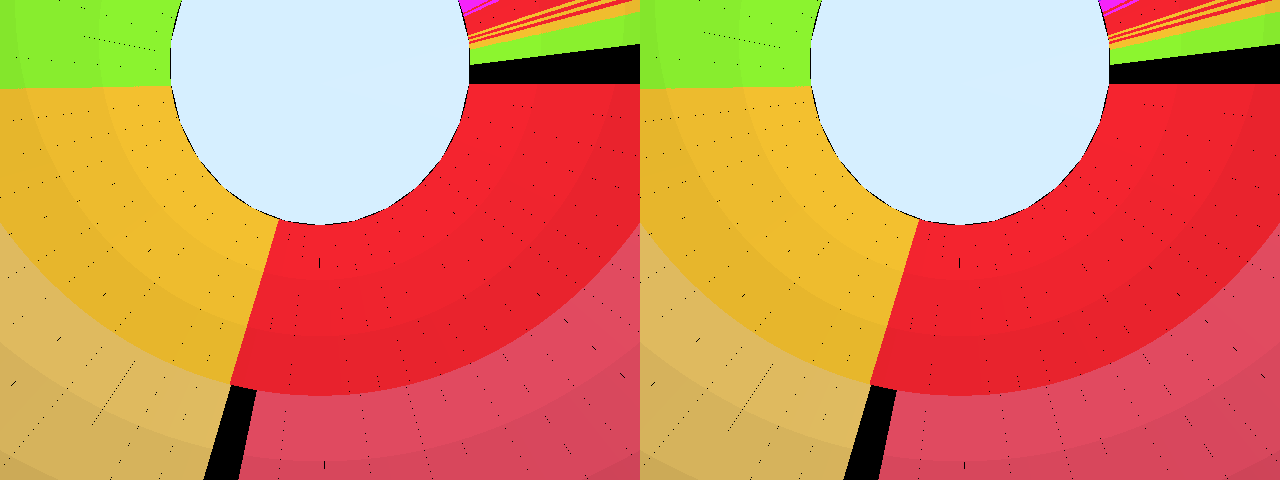
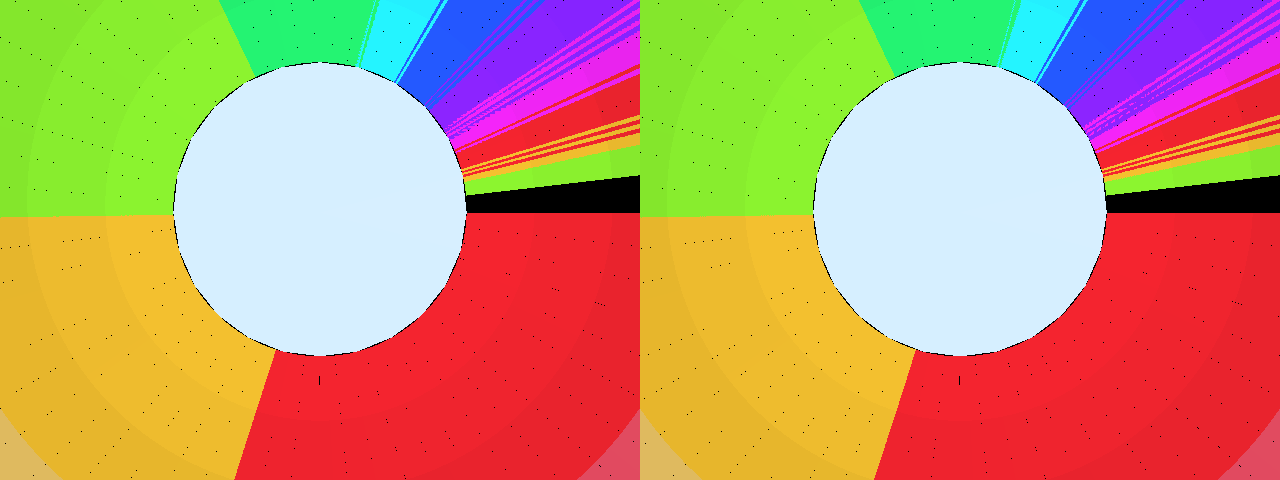
feat(dome): wide fisheye up-view to show the whole hemisphere
The player stands inside a 35-unit hemisphere, so the camera can't "pull back"
to frame it — the dome always surrounds the viewer. Switch the camera to a wide
fisheye (FOV 80 -> 150) at the dome centre looking straight up: the zenith cap
centres and the elevation bands radiate as concentric per-branch colour wedges
out to the horizon at the frame edge, so the whole hemisphere reads in one frame.
Raise CAM_OFFSET z to 3.5 (above the astronaut's head) so the avatar no longer
occludes the cap. Rotation=Track is kept (turn to look around).

Verified (WF_CULL=1, pixel-identical to cull-off): centred cap + full 360° of
radiating bands; screenshots updated.

diff --git a/wflevels/dome/blender_dome.py b/wflevels/dome/blender_dome.py
@@ -57,12 +57,13 @@ BANDS      = {1: (50.0, 72.0), 2: (28.0, 50.0), 3: (8.0, 28.0)}
 PLAYER_SPAWN = (0.0, 0.0, 1.0)          # player at the dome centre
 
 # Camera — player turns to look around (Rotation='Track' follows the player heading
-# C; Position Relative keeps it at the centre). Look-at target is high+forward so
-# the gaze pitches UP at the dome; turning sweeps that upward view around. (Framing
-# is a tuning step — adjust CAM_OFFSET / TARGET2_POS against a screenshot.)
-CAM_OFFSET  = (0.0,  0.0,  2.0)         # camera ≈ at the player's head
+# C). The player stands INSIDE a 35-unit hemisphere, so you can't "pull back" to see
+# it whole — the dome always surrounds you. Instead this is a wide FISHEYE looking
+# straight UP from the centre: the zenith cap centres, the elevation bands read as
+# concentric rings out toward the horizon at the frame edge. Turning sweeps it.
+CAM_OFFSET  = (0.0,  0.0,  3.5)         # at the dome centre, above the astronaut's head
 TARGET1_POS = (0.0,  0.0,  1.0)         # follow anchor (centre)
-TARGET2_POS = (0.0,  9.0, 26.0)         # look-at: up + forward → pitch toward the dome
+TARGET2_POS = (0.0,  2.0, 34.0)         # look-at: ~straight up (tiny +Y avoids gimbal)
 
 # Room bbox — contains the hemisphere (±35, z≤35), player, and camera, with margin.
 #   world = ROOM_CENTER + local  →  X[-45,45] Y[-45,45] Z[-2,45].
@@ -416,7 +417,7 @@ make_empty('CamShot01', CAM_OFFSET, 'camshot',
         'Position X':          'Relative',
         'Position Y':          'Relative',
         'Position Z':          'Relative',
-        'FOV':                 80.0,          # wide, to take in the dome overhead
+        'FOV':                 150.0,         # fisheye — whole hemisphere (cap → horizon)
         'Climb Rate':          4.0,
         'Elasticity':          10.0,
         'Pan Time In Seconds': 0.4,

diff --git a/docs/plans/2026-06-13-planetarium-dome-view.md b/docs/plans/2026-06-13-planetarium-dome-view.md
@@ -213,19 +213,25 @@ Built: `blender --background --python wflevels/dome/blender_dome.py` (17 objects
 - **M1 — PASS.** `FL: scanned '.' — 37 segments`; no asserts, no "fell out of room", no terminate,
   no zforth errors. (The 4 levcomp "outside every room bbox" warnings are the parked-OOB band/cap
   *templates* — spawned at the origin at runtime, exactly as filelight's parked templates.)
-- **M2 — PASS.** Renders the planetarium dome: light-blue **zenith cap** (cwd) overhead, ringed by
-  concentric **elevation bands** coloured per-branch (green/gold/red/pink, desaturating with depth).
-  And **`WF_CULL=1` is pixel-identical to the default (cull-off)** run — the inward-wound spherical
-  patches + cap are correct, so the dome is a clean first culling-on consumer.
+- **M2 — PASS.** Renders the planetarium dome — a wide **fisheye looking straight up from the
+  centre**: the light-blue **zenith cap** (cwd) centred, the **elevation bands** radiating as
+  concentric per-branch colour wedges (big green/gold/red depth-1 branches subdivided into depth-2/3
+  arcs; thin slivers for small branches) out to the horizon at the frame edge, full 360°. The whole
+  hemisphere reads in one frame. **`WF_CULL=1` is pixel-identical to the default (cull-off)** run —
+  the inward-wound spherical patches + cap are correct, so the dome is a clean first culling-on
+  consumer.
+  <img src="../../wflevels/dome/screenshots/2026-06-13-planetarium-dome.png" width="480">
   <img src="../../wflevels/dome/screenshots/2026-06-13-dome-cull-off-vs-on.png" width="700">
-  *(left: default / cull off · right: `WF_CULL=1` / cull on — identical)*
+  *(top: fisheye up-view (whole hemisphere) · bottom — left: cull off · right: `WF_CULL=1` — identical)*
 - **M3 — inherited, not separately demonstrated.** The render policy lives entirely in the Director
   `.fth` (depth→band, hue), the same hot-reload mechanism filelight proved; not re-demonstrated this
   session.
 
-**Tuning note:** the camera (FOV 80, at centre looking up-and-forward) frames the cap + inner bands
-filling the view; pull `CAM_OFFSET`/`TARGET2_POS` back to take in more of the hemisphere. The
-"turn to look around" (`Rotation=Track`) wasn't interactively play-tested (headless capture only).
+**Camera:** a wide fisheye (`FOV 150`) from the dome centre looking straight up — you can't "pull
+back" from inside a 35-unit hemisphere (it always surrounds you), so the whole dome is shown as a
+radial fisheye instead. `CAM_OFFSET` z is raised to `3.5` (above the astronaut's head) so the
+avatar doesn't occlude the cap. The "turn to look around" (`Rotation=Track`) wasn't interactively
+play-tested (headless capture only).
 
 ## Out of scope (future tunables, all policy-only)
 - **Azimuthal camera spin** (planetarium drift) — a per-frame camshot heading write; needs either a

diff --git a/docs/plans/.history/2026-06-13-planetarium-dome-view.md b/docs/plans/.history/2026-06-13-planetarium-dome-view.md
@@ -1,8 +1,14 @@
 | Date | Change |
 |------|--------|
+| [2026-06-13](https://github.com/wbniv/WorldFoundry/commit/7622e66c) | feat(dome): planetarium dome view — sunburst on a hemisphere (wflevels/dome/) |
 | [2026-06-13](https://github.com/wbniv/WorldFoundry/commit/d1e98510) | feat(gfx): software backface culling, opt-in via WF_CULL=1 (default off) |
 
 <!--history-meta v1
+7622e66c	author	Will Norris
+7622e66c	added	23
+7622e66c	deleted	0
+7622e66c	files	1
+7622e66c	body	Fourth filesystem-visualization view (after FSN node-link, Filelight flat\nsunburst, KDirStat treemap). The player stands at the centre of a dome and looks\nup: the cwd is a light-blue cap directly overhead (the zenith), its children fan\nout in concentric ELEVATION bands descending toward the horizon, each segment's\nAZIMUTH arc proportional to recursive size, coloured per branch.\n\nZero engine code — REUSES Filelight's fl-scan emitter verbatim. The dome reads\nthe same {depth, a0, a1 (rev), branchId} table: depth -> elevation band (φ range\nbaked into the mesh), a0/a1 -> azimuth, branch -> hue; sizeKB unused (size lives\nin the arc, not height). So a new view is a new Director .fth + new meshes:\n\n- blender_dome.py: spherical-patch band templates (φ bands [50,72]/[28,50]/[8,28])\n  + a zenith spherical cap, all wound for INWARD normals (toward the player at the\n  centre) so they're visible from inside under backface culling. Player-relative\n  heading-tracking camera (Rotation=Track) → turn to look around. Director tiles\n  each segment's arc with set-rotation'd band wedges (no height scale), reusing\n  seg-color/hsv>rgb from Filelight; the cap is spawned once.\n- dome-standalone.iff.txt (L4 wrapper, ~450-wedge budget like filelight) +\n  built dome.iff / dome-standalone.iff. `task run-dome` (WF_CULL=1 enables the\n  cull the dome is wound for; renders fine with it off too).\n\nVerified: loads clean (FL: scanned 37 segments, no asserts/terminate/out-of-room);\nrenders cap + bands + per-branch hue; and WF_CULL=1 is pixel-identical to cull-off\n— the inward winding is correct, making the dome the first WF_CULL=1 consumer.\nOpen polish: camera pull-back framing, interactive turn play-test, hot-reload\nre-demo. Plan + screenshots: docs/plans/2026-06-13-planetarium-dome-view.md.\n\nCo-Authored-By: Claude Opus 4.8 (1M context) <noreply@anthropic.com>
 d1e98510	author	Will Norris
 d1e98510	added	214
 d1e98510	deleted	0
